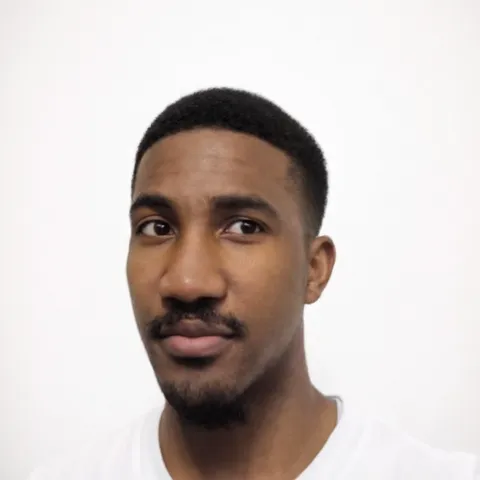
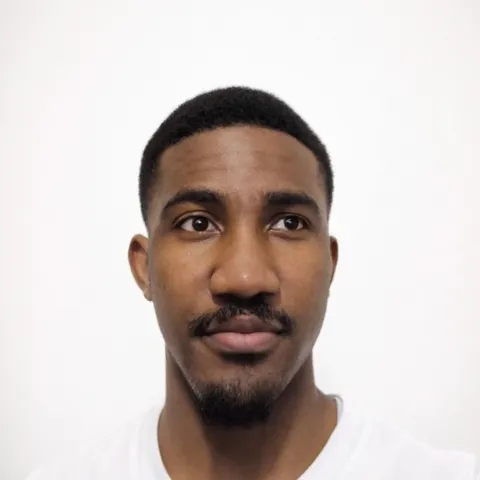
fix(face-tracker): effet miroir corrigé et transitions plus fluides
- Signe du yaw inversé dans le script : la tête tournait à l'opposé des
  yeux (et du curseur). Tête et yeux suivent maintenant la même direction.
- Grille 7×7 (pas de 5° entre images voisines au lieu de 7,5°) : 49 images.
- Hystérésis de 18 % de case : plus de clignotement quand le curseur
  s'arrête sur une frontière entre deux images.
- Fondus easeOut : 140 ms entre regards voisins, 240 ms vers/depuis une
  expression ; lissage du curseur un peu plus doux.

Changed region(s): [[0.25, 0.1562, 0.7188, 1.0], [0.625, 0.9062, 0.6875, 1.0]]

diff --git a/src/components/FaceTracker/FaceTracker.tsx b/src/components/FaceTracker/FaceTracker.tsx
@@ -6,6 +6,7 @@ import {
   CENTER_GAZE_KEY,
   EXPRESSION_KEYS,
   GAZE_KEYS,
+  GRID_CENTER,
   expressionKey,
   faceUrl,
   gazeKey,
@@ -13,7 +14,7 @@ import {
   isFaceSetFor,
 } from './faceAssets';
 import type { Expression, FaceKey } from './faceAssets';
-import { normalizePointer, smoothingFactor, toCellIndex } from './gaze';
+import { normalizePointer, smoothingFactor, toCellIndexStable } from './gaze';
 import type { Point } from './gaze';
 
 /* ── Styles : le cadre remplit son parent (taille, rayon et overflow hérités) ── */
@@ -60,8 +61,10 @@ const FaceLayer = styled(motion.img)`
 
 /* ── Réglages ── */
 
-/** Durée du fondu entre deux images (assez court pour rester net, sans flou). */
-const CROSSFADE_S = 0.1;
+/** Fondu entre deux directions voisines : court, les images se ressemblent. */
+const GAZE_FADE_S = 0.14;
+/** Fondu vers/depuis une expression ou la photo d'origine : changement plus visible. */
+const EXPRESSION_FADE_S = 0.24;
 /** Durée d'affichage d'une expression déclenchée au tap (écrans tactiles). */
 const TAP_EXPRESSION_MS = 1400;
 /** En dessous de cet écart, le lissage est considéré comme terminé. */
@@ -124,19 +127,25 @@ function expressionFrom(target: EventTarget | null): Expression | null {
 interface LayerState {
   id: number;
   src: string;
+  fade: number;
 }
+
+const isGazeUrl = (src: string) => src.includes('/gaze_');
 
 function useCrossfade(initialSrc: string) {
   const [layers, setLayers] = useState<{ previous: LayerState | null; current: LayerState }>({
     previous: null,
-    current: { id: 0, src: initialSrc },
+    current: { id: 0, src: initialSrc, fade: 0 },
   });
   const currentSrc = useRef(initialSrc);
 
   const show = useCallback((src: string) => {
-    if (src === currentSrc.current) return;
+    const from = currentSrc.current;
+    if (src === from) return;
     currentSrc.current = src;
-    setLayers(({ current }) => ({ previous: current, current: { id: current.id + 1, src } }));
+    // Entre deux regards voisins, fondu court ; sinon (expression, photo d'origine) plus long.
+    const fade = isGazeUrl(src) && isGazeUrl(from) ? GAZE_FADE_S : EXPRESSION_FADE_S;
+    setLayers(({ current }) => ({ previous: current, current: { id: current.id + 1, src, fade } }));
   }, []);
 
   return { layers, show };
@@ -159,7 +168,7 @@ type Mode = 'static' | 'pointer' | 'touch';
  * survol des éléments `[data-expression]` de la zone suivie.
  *
  * Aucune animation en temps réel : on affiche l'image pré-générée
- * (`public/face/`) correspondant à la case de la grille 5×5 visée, et l'état
+ * (`public/face/`) correspondant à la case de la grille 7×7 visée, et l'état
  * React ne change que lorsque cette case change.
  */
 export function FaceTracker({ src, alt, trackingRef }: FaceTrackerProps) {
@@ -205,6 +214,7 @@ export function FaceTracker({ src, alt, trackingRef }: FaceTrackerProps) {
     let hoverExpression: Expression | null = null;
     let focusExpression: Expression | null = null;
     const current: Point = { x: 0, y: 0 };
+    const cell = { row: GRID_CENTER, col: GRID_CENTER };
     let rafId = 0;
     let lastTime = 0;
 
@@ -233,10 +243,10 @@ export function FaceTracker({ src, alt, trackingRef }: FaceTrackerProps) {
         current.y * PARALLAX_SHIFT_PCT
       }%, 0) scale(${PARALLAX_SCALE})`;
 
+      cell.row = toCellIndexStable(current.y, cell.row);
+      cell.col = toCellIndexStable(current.x, cell.col);
       const expression = hoverExpression ?? focusExpression;
-      const key = expression
-        ? expressionKey(expression)
-        : gazeKey(toCellIndex(current.y), toCellIndex(current.x));
+      const key = expression ? expressionKey(expression) : gazeKey(cell.row, cell.col);
       show(faceUrl(key));
 
       rafId = settled ? 0 : requestAnimationFrame(tick);
@@ -325,7 +335,7 @@ export function FaceTracker({ src, alt, trackingRef }: FaceTrackerProps) {
               // `initial` n'est lu qu'au montage : une couche devenue « previous » reste opaque.
               initial={layer.id === 0 ? false : { opacity: 0 }}
               animate={{ opacity: 1 }}
-              transition={{ duration: CROSSFADE_S, ease: 'linear' }}
+              transition={{ duration: layer.fade, ease: 'easeOut' }}
             />
           ) : null,
         )}

diff --git a/scripts/generate-faces.ts b/scripts/generate-faces.ts
@@ -1,7 +1,7 @@
 /**
  * Génère le jeu d'images du composant <FaceTracker /> dans `public/face/`.
  *
- *   gaze_{row}_{col}.webp  grille 5×5 de directions du regard / de la tête
+ *   gaze_{row}_{col}.webp  grille 7×7 de directions du regard / de la tête
  *                          (row 0 = regarde en haut, col 0 = regarde vers la gauche de l'écran)
  *   expr_{name}.webp       expressions : smile, big-smile, wink, surprised, raised-eyebrow, neutral
  *
@@ -12,9 +12,10 @@
  *   # Génération réelle via Replicate (modèle fofr/expression-editor, ~31 prédictions)
  *   REPLICATE_API_TOKEN=r8_xxx npm run faces:generate
  *
- *   # 1er lancement conseillé : calibrer le sens du regard (2 prédictions seulement)
- *   REPLICATE_API_TOKEN=r8_xxx npm run faces:generate -- --only gaze_0_0,gaze_4_4 --force
- *   → gaze_0_0 doit regarder en HAUT à GAUCHE de l'écran, gaze_4_4 en BAS à DROITE.
+ *   # 1er lancement conseillé : calibrer le sens du regard (3 prédictions seulement)
+ *   REPLICATE_API_TOKEN=r8_xxx npm run faces:generate -- --only gaze_0_0,gaze_3_0,gaze_6_6 --force
+ *   → gaze_0_0 / gaze_3_0 : tête ET yeux vers la GAUCHE de l'écran (haut / milieu),
+ *     gaze_6_6 vers le BAS à DROITE.
  *     Sinon, inverser le signe concerné dans SIGN ci-dessous.
  *
  *   # Images de test sans Replicate (décalages de cadrage sur la photo d'origine)
@@ -82,9 +83,10 @@ const GAZE_RANGE = { pupil: 14, yaw: 15, pitch: 10 };
 
 /**
  * Conventions de signe du modèle (LivePortrait). t < 0 = gauche / haut de l'écran.
- * À vérifier avec la commande de calibration ci-dessus ; inverser si besoin.
+ * Vérifiées visuellement : rotate_yaw > 0 tourne la tête vers la gauche de l'image
+ * (un yaw de signe opposé aux pupilles donnait un effet miroir).
  */
-const SIGN = { pupilX: 1, pupilY: -1, yaw: -1, pitch: 1 };
+const SIGN = { pupilX: 1, pupilY: -1, yaw: 1, pitch: 1 };
 
 type ModelInput = Partial<
   Record<

diff --git a/src/components/FaceTracker/gaze.ts b/src/components/FaceTracker/gaze.ts
@@ -53,11 +53,29 @@ export function normalizePointer(pointer: Point, anchor: Point, area: Bounds, re
 
 /** [-1, 1] → index de case [0, GRID_SIZE - 1], cases de largeur égale. */
 export function toCellIndex(value: number): number {
-  const index = Math.round(((clamp(value, -1, 1) + 1) / 2) * (GRID_SIZE - 1));
+  const index = Math.round(toCellPosition(value));
   return clamp(index, 0, GRID_SIZE - 1);
 }
 
+/** [-1, 1] → position continue sur [0, GRID_SIZE - 1]. */
+function toCellPosition(value: number): number {
+  return ((clamp(value, -1, 1) + 1) / 2) * (GRID_SIZE - 1);
+}
+
+/** Marge (en fraction de case) à franchir avant de quitter la case courante. */
+export const CELL_HYSTERESIS = 0.18;
+
+/**
+ * Comme `toCellIndex`, mais reste sur `previous` tant que la position ne
+ * dépasse pas la frontière de plus de `margin` : supprime le clignotement entre
+ * deux images quand le curseur s'arrête pile sur une frontière.
+ */
+export function toCellIndexStable(value: number, previous: number, margin = CELL_HYSTERESIS): number {
+  const position = toCellPosition(value);
+  return Math.abs(position - previous) <= 0.5 + margin ? previous : toCellIndex(value);
+}
+
 /** Facteur de lissage exponentiel indépendant de la fréquence d'affichage. */
-export function smoothingFactor(deltaMs: number, perFrame = 0.3): number {
+export function smoothingFactor(deltaMs: number, perFrame = 0.24): number {
   return 1 - Math.pow(1 - perFrame, deltaMs / (1000 / 60));
 }

diff --git a/src/components/FaceTracker/faceAssets.ts b/src/components/FaceTracker/faceAssets.ts
@@ -6,8 +6,11 @@ import { FACE_SET } from './faceSet.generated';
  * expression ici puis relancer le script suffit à la rendre disponible.
  */
 
-/** Grille de regard GRID_SIZE × GRID_SIZE ; la case centrale = face caméra. */
-export const GRID_SIZE = 5;
+/**
+ * Grille de regard GRID_SIZE × GRID_SIZE ; la case centrale = face caméra.
+ * 7 × 7 : pas de 5° de rotation entre deux images voisines, transitions douces.
+ */
+export const GRID_SIZE = 7;
 export const GRID_CENTER = Math.floor(GRID_SIZE / 2);
 
 export const EXPRESSIONS = [

diff --git a/src/components/FaceTracker/faceSet.generated.ts b/src/components/FaceTracker/faceSet.generated.ts
@@ -7,7 +7,7 @@ export const FACE_SET: {
   /** URLs de la photo d'origine : le suivi ne s'active que si l'avatar affiché en fait partie. */
   readonly sources: readonly string[];
 } = {
-  version: '51e437fd2c',
+  version: '645161a997',
   placeholder: false,
   sources: [
     '/francis-itoua.jpg',
